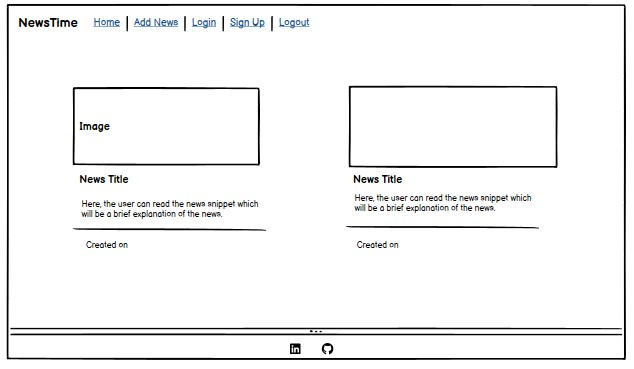
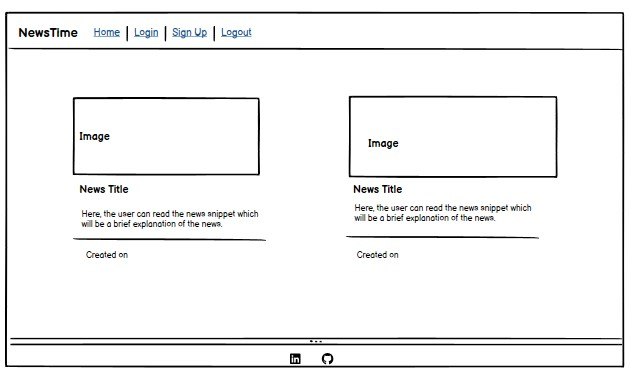
Add Wireframes to readme file

diff --git a/news/forms.py b/news/forms.py
@@ -27,7 +27,6 @@ class AddNewsForm(forms.ModelForm):
 
         widgets = {
             'news_title': forms.TextInput(attrs={'class': 'form-control'}),
-            # 'author': forms.Select(attrs={'class': 'form-control'}),
             'news_overview': forms.Textarea(attrs={
                 'class': 'form-control',
                 'placeholder': 'Write content here ...',

diff --git a/README.md b/README.md
@@ -52,8 +52,30 @@ ___
     * Racing Sans One 
 
 
+
 ### _Wireframes_
 
+I created Wireframes to visualize the site's design and act as a template to use when developing the site.
+
 **Home Page**
+
+![NewsTime Home page](./readme/Images/home.jpg)
+
+---
+**Article Page**
+
+![NewsTime Article](./readme/Images/article.jpg)
+
+
+**Sign up page Page**
+
+![NewsTime Sign Up](./readme/Images/signup.jpg)
+
+
+
+**Sign In page Page**
+
+![NewsTime Article](./readme/Images/signin.jpg)
+
 
 
